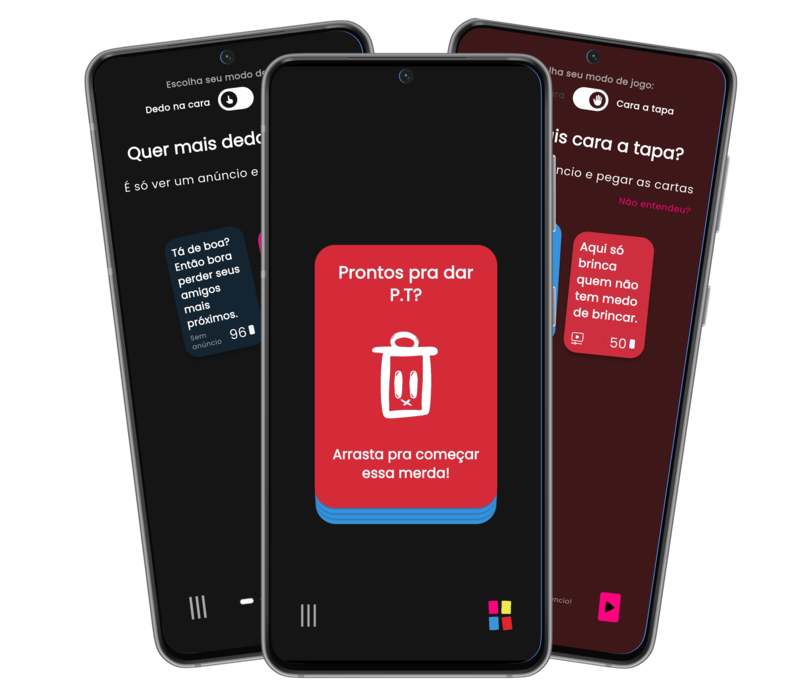
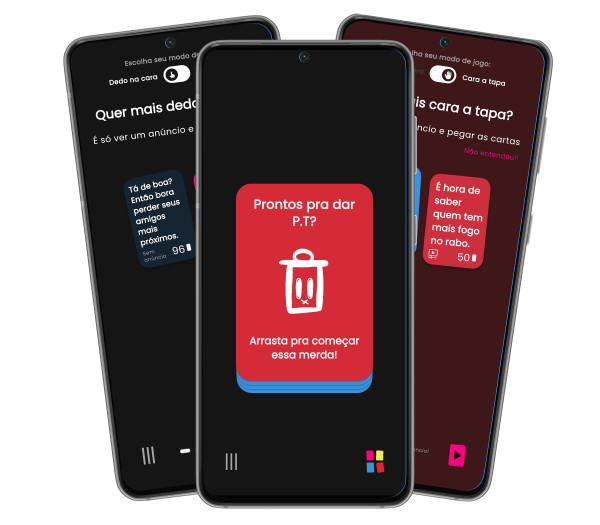
Fix: Nova imagem principal de mockup

diff --git a/trashparty/flutter_service_worker.js b/trashparty/flutter_service_worker.js
@@ -16,7 +16,7 @@ const RESOURCES = {"assets/AssetManifest.bin": "200dbe91c527c8d2e1b8a2bd7d19b3ce
 "assets/assets/fonts/Santana.ttf": "39a6944a9dc832a9f079b4a262031f70",
 "assets/assets/images/logo.png": "e27caa54a852fc8b78b6665a190f0b15",
 "assets/assets/images/playstore_white_logo.png": "38d1f3b2e13e0b132796b0a1651a3150",
-"assets/assets/images/trash_party_mockup_celular.png": "772a85488c62b82cff45ee65d7e20737",
+"assets/assets/images/trash_party_mockup_celular.png": "aadfd08f8f231da736d875d2aa6328b7",
 "assets/FontManifest.json": "ae1fa8097244079b73e5bda660cae108",
 "assets/fonts/MaterialIcons-Regular.otf": "0db35ae7a415370b89e807027510caf0",
 "assets/loading.gif": "b28d7898d0d809f086aab0a5d322a278",
@@ -34,14 +34,13 @@ const RESOURCES = {"assets/AssetManifest.bin": "200dbe91c527c8d2e1b8a2bd7d19b3ce
 "canvaskit/skwasm.wasm": "e42815763c5d05bba43f9d0337fa7d84",
 "canvaskit/skwasm.worker.js": "bfb704a6c714a75da9ef320991e88b03",
 "favicon.ico": "8845f6d0fc27134372eca831bd295bbd",
-"favicon.png": "5dcef449791fa27946b3d35ad8803796",
 "flutter.js": "c71a09214cb6f5f8996a531350400a9a",
 "icons/Icon-192.png": "0d144e089923c8042202cdabe512c3ea",
 "icons/Icon-512.png": "923d7a275707aa5112dfce8af4178b8c",
 "icons/Icon-maskable-192.png": "0d144e089923c8042202cdabe512c3ea",
 "icons/Icon-maskable-512.png": "923d7a275707aa5112dfce8af4178b8c",
-"index.html": "b8cd8497f7e67949153198a98c873d71",
-"/": "b8cd8497f7e67949153198a98c873d71",
+"index.html": "2aba3bbe6c4ddd8c90f67bf732279ea7",
+"/": "2aba3bbe6c4ddd8c90f67bf732279ea7",
 "main.dart.js": "ce58002f9eee02d7eca6b7fb5d8ef1f8",
 "manifest.json": "5dd0e851a3446c1eb9caf641336bac6a",
 "version.json": "adde18a6257a175beeb9246b037ad499"};

diff --git a/trashparty/index.html b/trashparty/index.html
@@ -34,7 +34,7 @@
 
   <script>
     // The value below is injected by flutter build, do not touch.
-    const serviceWorkerVersion = "1895173983";
+    const serviceWorkerVersion = "4232544876";
   </script>
   <!-- This script adds the flutter initialization JS code -->
   <script src="flutter.js" defer></script>
